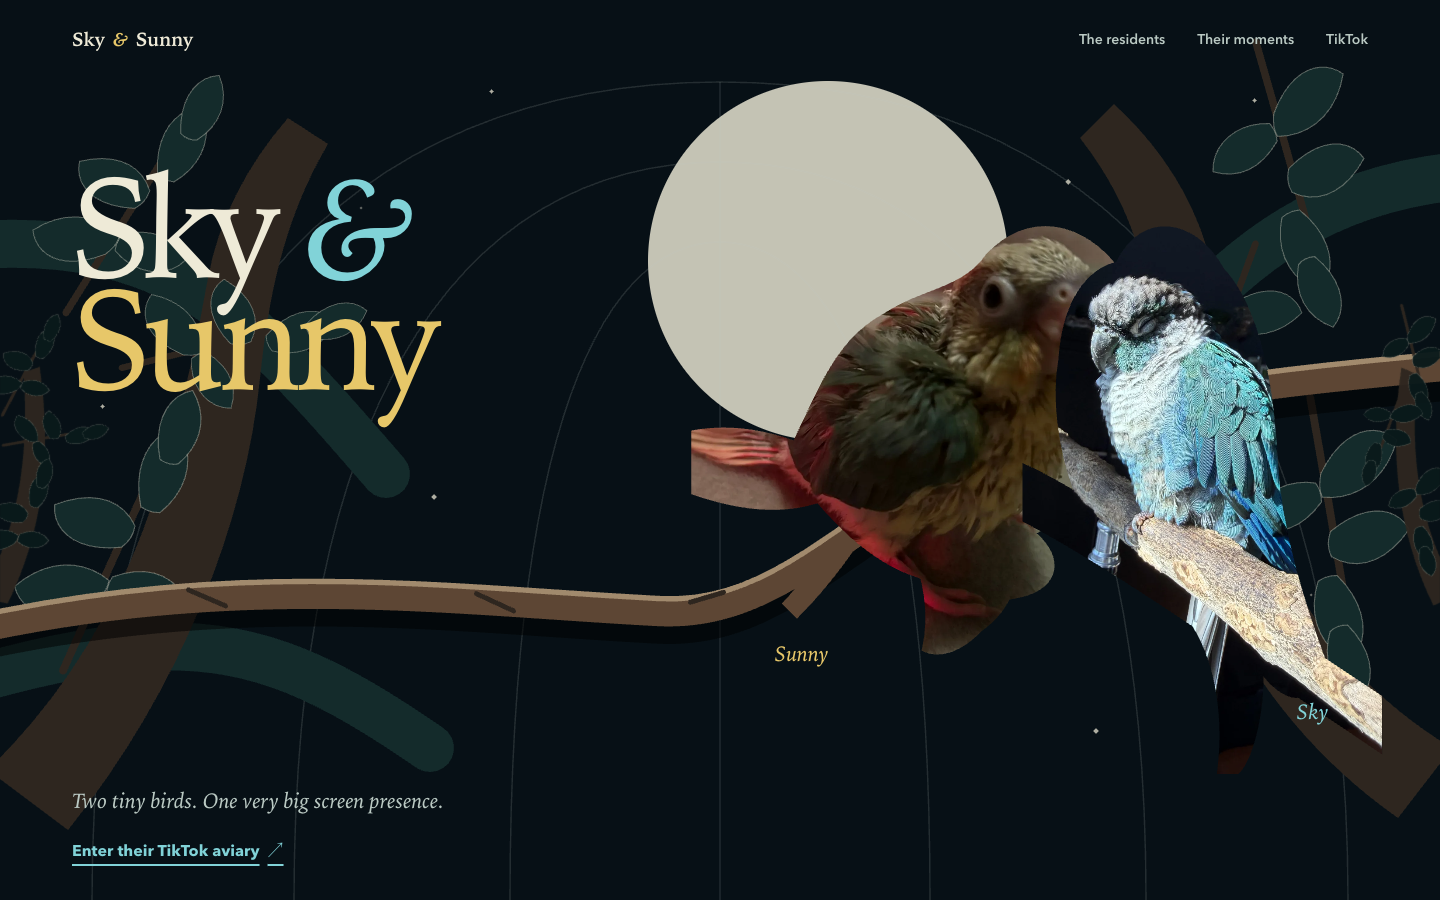
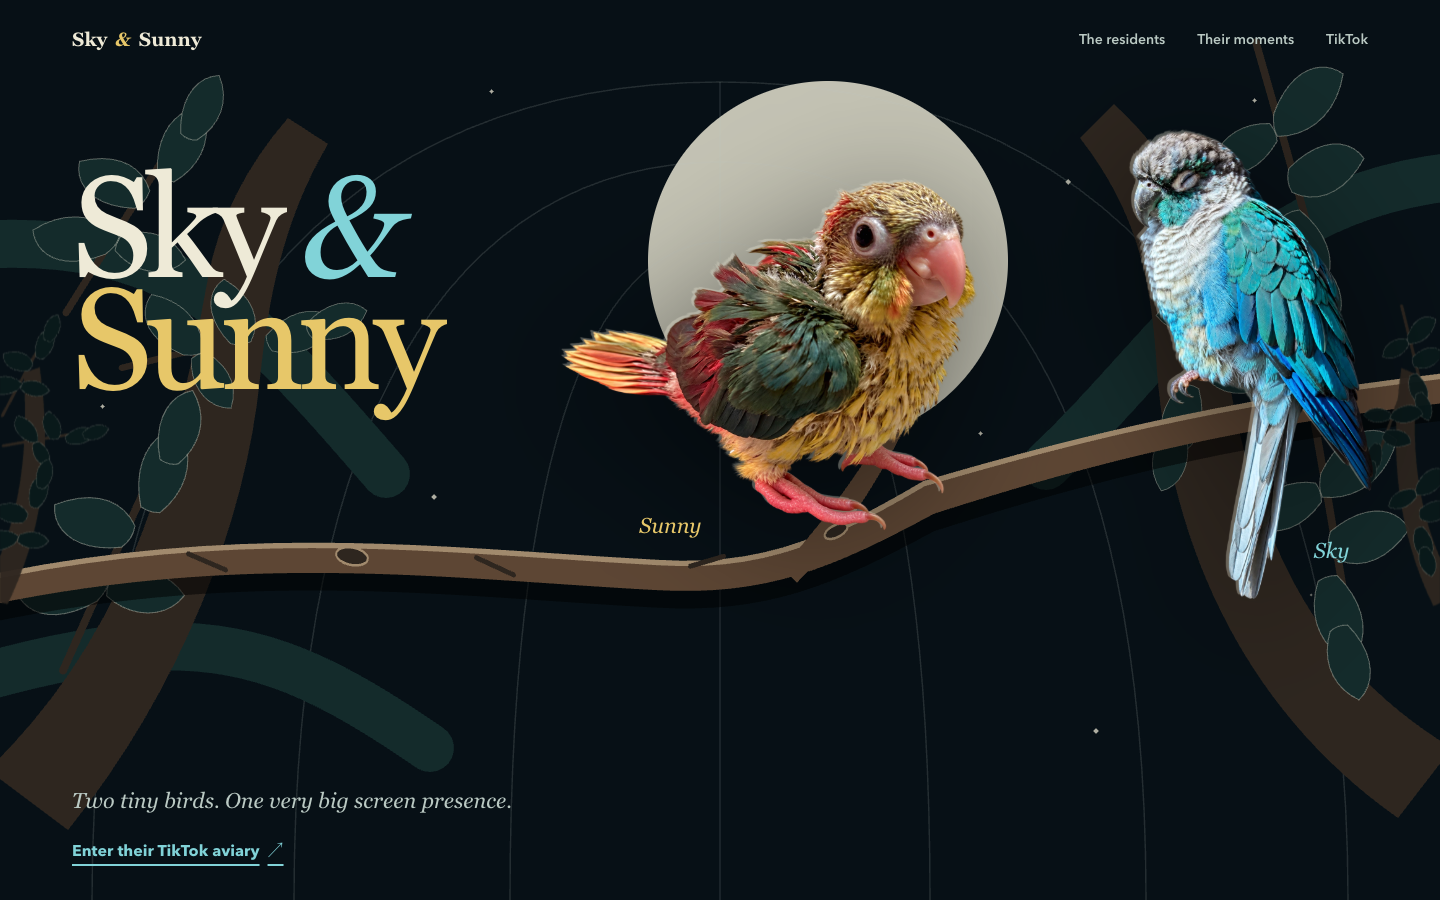
fix: polish aviary cutouts and safe zones

diff --git a/sandbox/night-aviary/index.html b/sandbox/night-aviary/index.html
@@ -30,12 +30,6 @@
   <main id="main-content">
     <svg class="scene-definitions" width="0" height="0" aria-hidden="true" focusable="false">
       <defs>
-        <clipPath id="sunny-clip" clipPathUnits="objectBoundingBox">
-          <path d="M.2 .59C.27 .47 .3 .35 .42 .29C.5 .24 .59 .24 .64 .17C.73 .08 .85 .1 .93 .2C1 .29 .98 .46 .91 .58C.88 .66 .82 .71 .75 .74C.81 .79 .8 .85 .72 .87C.64 .89 .57 .87 .49 .83C.39 .8 .3 .72 .2 .59ZM0 .53C.12 .51 .23 .54 .38 .62C.3 .69 .18 .72 0 .66ZM.48 .78C.55 .8 .63 .8 .7 .77C.72 .84 .69 .9 .63 .94C.59 .98 .54 1 .5 .98C.52 .9 .5 .83 .48 .78Z"></path>
-        </clipPath>
-        <clipPath id="sky-clip" clipPathUnits="objectBoundingBox">
-          <path d="M.1 .36C.11 .27 .18 .22 .26 .21C.33 .13 .48 .14 .56 .22C.66 .28 .7 .4 .71 .52C.72 .62 .78 .73 .84 .82C.83 .88 .76 .91 .67 .85C.67 .91 .64 .98 .6 1H.54C.56 .92 .54 .83 .47 .77C.34 .72 .22 .65 .14 .56C.1 .5 .08 .42 .1 .36ZM0 .52C.2 .57 .43 .67 1 .88V.97C.57 .81 .27 .69 0 .61Z"></path>
-        </clipPath>
         <symbol id="leaf-spray" viewBox="0 0 180 140">
           <path class="leaf-stem" d="M14 130C50 102 88 72 164 15"></path>
           <path class="leaf-blade" d="M54 101C20 102 8 84 12 68C38 62 59 73 67 93C64 97 60 99 54 101Z"></path>
@@ -93,26 +87,24 @@
           <h1 id="hero-title"><span>Sky <i>&amp;</i></span><span>Sunny</span></h1>
         </div>
         <div class="residents" aria-label="Portraits of Sunny and Sky">
-          <figure class="resident resident-sunny">
-            <div class="portrait-mask sunny-mask">
-              <img src="assets/sunny-portrait.webp" width="1400" height="1400" alt="Sunny, a small green-and-yellow bird with a rosy tail and visible pink feet.">
-            </div>
+          <figure class="resident resident-sunny" data-face="sunny">
+            <img class="resident-cutout" src="assets/sunny-cutout.webp" width="1366" height="1152" alt="Sunny, a small green-and-yellow bird with a rosy tail and visible pink feet.">
             <figcaption>Sunny</figcaption>
           </figure>
-          <figure class="resident resident-sky">
-            <div class="portrait-mask sky-mask">
-              <img src="assets/sky-portrait.webp" width="1200" height="2134" alt="Sky, a turquoise-and-grey bird resting on a natural diagonal branch.">
-            </div>
+          <figure class="resident resident-sky" data-face="sky">
+            <img class="resident-cutout" src="assets/sky-cutout.webp" width="1024" height="1536" alt="Sky, a turquoise-and-grey bird ready to settle on the shared branch.">
             <figcaption>Sky</figcaption>
           </figure>
         </div>
 
         <svg class="shared-perch" viewBox="0 0 1440 230" preserveAspectRatio="none" aria-hidden="true" focusable="false">
-          <path class="perch-shadow" d="M-40 164C236 114 444 138 658 147C760 152 824 94 924 47C1094 -26 1254 -34 1488 -52L1488 -28C1254 -10 1098 -2 934 67C832 115 766 174 656 169C444 160 236 136 -40 186Z"></path>
-          <path class="perch-main" d="M-40 150C236 100 444 124 658 133C760 138 824 80 924 33C1094 -40 1254 -48 1488 -66L1488 -44C1254 -26 1098 -18 934 53C832 101 766 160 656 155C444 146 236 122 -40 172Z"></path>
-          <path class="branch-edge" d="M-40 150C236 100 444 124 658 133C760 138 824 80 924 33C1094 -40 1254 -48 1488 -66"></path>
+          <path class="perch-shadow" d="M-40 164C236 114 444 138 658 147C760 152 824 131 924 84C1094 44 1254 14 1488 -6L1488 16C1254 34 1098 66 934 108C832 152 766 174 656 169C444 160 236 136 -40 186Z"></path>
+          <path class="perch-main" d="M-40 150C236 100 444 124 658 133C760 138 824 117 924 70C1094 30 1254 0 1488 -20L1488 2C1254 20 1098 52 934 94C832 138 766 160 656 155C444 146 236 122 -40 172Z"></path>
+          <path class="branch-edge" d="M-40 150C236 100 444 124 658 133C760 138 824 117 924 70C1094 30 1254 0 1488 -20"></path>
           <path class="perch-fork" d="M782 137C835 91 872 45 901 4L914 11C885 57 852 105 797 149Z"></path>
           <path class="branch-fissure" d="M188 126L226 139M476 129L514 143M690 136L724 128"></path>
+          <ellipse class="branch-knot" cx="352" cy="128" rx="16" ry="7" transform="rotate(8 352 128)"></ellipse>
+          <ellipse class="branch-knot" cx="836" cy="108" rx="12" ry="5" transform="rotate(-20 836 108)"></ellipse>
         </svg>
         <div class="hero-note">
           <p>Two tiny birds. One very big screen presence.</p>
@@ -144,14 +136,25 @@
       <div class="moments-intro">
         <h2 id="moments-title">Three small encounters after dark.</h2>
       </div>
+      <svg class="moment-foliage moment-foliage-left" viewBox="0 0 340 800" aria-hidden="true" focusable="false">
+        <use href="#leaf-spray" x="-80" y="28" width="300" height="232" transform="rotate(-22 70 144)"></use>
+        <use href="#leaf-spray" x="22" y="244" width="254" height="198" transform="rotate(26 148 344)"></use>
+        <use href="#leaf-spray" x="-98" y="490" width="318" height="246" transform="rotate(-30 62 612)"></use>
+      </svg>
+      <svg class="moment-foliage moment-foliage-right" viewBox="0 0 340 800" aria-hidden="true" focusable="false">
+        <use href="#leaf-spray" x="118" y="40" width="300" height="232" transform="rotate(116 270 156)"></use>
+        <use href="#leaf-spray" x="40" y="270" width="258" height="200" transform="rotate(148 172 370)"></use>
+        <use href="#leaf-spray" x="132" y="500" width="314" height="244" transform="rotate(120 288 622)"></use>
+      </svg>
       <svg class="habitat-branch" viewBox="0 0 1440 2720" preserveAspectRatio="none" aria-hidden="true" focusable="false">
-        <path class="branch-shadow segment-one" d="M-80 92C180 124 384 246 456 470C538 724 364 836 408 1080"></path>
-        <path class="branch-shadow segment-two" d="M408 1080C450 1312 686 1370 876 1502C1070 1636 1184 1908 1058 2172"></path>
-        <path class="branch-shadow segment-three" d="M1058 2172C974 2348 792 2492 708 2780"></path>
-        <path class="branch-main segment-one" d="M-80 76C180 108 384 230 456 454C538 708 364 820 408 1064"></path>
-        <path class="branch-main segment-two" d="M408 1064C450 1296 686 1354 876 1486C1070 1620 1184 1892 1058 2156"></path>
-        <path class="branch-main segment-three" d="M1058 2156C974 2332 792 2476 708 2764"></path>
-        <path class="branch-edge" d="M-80 65C180 97 384 219 456 443C538 697 364 809 408 1053C450 1285 686 1343 876 1475C1070 1609 1184 1881 1058 2145C974 2321 792 2465 708 2753"></path>
+        <path class="branch-shadow segment-one" d="M-80 92C180 124 384 246 456 470C538 724 512 902 600 1080"></path>
+        <path class="branch-shadow segment-two" d="M600 1080C690 1298 820 1370 904 1510C996 1664 924 1900 700 2172"></path>
+        <path class="branch-shadow segment-three" d="M700 2172C626 2350 520 2508 430 2780"></path>
+        <path class="branch-main segment-one" d="M-80 76C180 108 384 230 456 454C538 708 512 886 600 1064"></path>
+        <path class="branch-main segment-two" d="M600 1064C690 1282 820 1354 904 1494C996 1648 924 1884 700 2156"></path>
+        <path class="branch-main segment-three" d="M700 2156C626 2334 520 2492 430 2764"></path>
+        <path class="branch-edge" d="M-80 65C180 97 384 219 456 443C538 697 512 875 600 1053C690 1271 820 1343 904 1483C996 1637 924 1873 700 2145C626 2323 520 2481 430 2753"></path>
+        <path class="branch-mark" d="M300 300L335 324M500 832L470 858M738 1374L774 1392M850 1760L812 1790M590 2378L555 2402"></path>
       </svg>
 
       <div class="moment-sequence">
@@ -162,7 +165,7 @@
             </a>
             <svg class="moment-twig twig-watermelon" viewBox="0 0 300 120" aria-hidden="true" focusable="false"><path d="M-12 98C82 92 154 52 310 18"></path><path d="M150 55C130 32 116 18 98 4"></path></svg>
           </div>
-          <div class="moment-copy">
+          <div class="moment-copy caption-clear">
             <span class="moment-number">01</span>
             <h3>Her life is forever changed</h3>
             <p>Sunny meets a watermelon on screen.</p>
@@ -175,9 +178,9 @@
             <a class="moment-image-link" href="https://www.tiktok.com/@skyandsunny.com/video/7214307952763620613" target="_blank" rel="noreferrer" aria-label="Watch Strawberries on TikTok">
               <img src="assets/moment-strawberries.webp" width="1400" height="851" alt="Sunny facing a tablet that shows bright red strawberries.">
             </a>
-            <svg class="moment-twig twig-strawberries" viewBox="0 0 300 120" aria-hidden="true" focusable="false"><path d="M-12 18C96 28 196 72 312 104"></path><path d="M174 66C198 44 214 24 226 4"></path></svg>
+            <svg class="moment-twig twig-strawberries" viewBox="0 0 300 120" aria-hidden="true" focusable="false"><path d="M-12 18C88 22 182 14 312 30"></path><path d="M154 18C174 8 190 4 206 2"></path></svg>
           </div>
-          <div class="moment-copy">
+          <div class="moment-copy caption-clear">
             <span class="moment-number">02</span>
             <h3>Strawberries</h3>
             <p>A bright red discovery, watched closely.</p>
@@ -192,7 +195,7 @@
             </a>
             <svg class="moment-twig twig-obsessions" viewBox="0 0 300 120" aria-hidden="true" focusable="false"><path d="M-12 96C80 88 178 52 312 10"></path><path d="M118 68C96 42 84 24 76 4"></path></svg>
           </div>
-          <div class="moment-copy">
+          <div class="moment-copy caption-clear">
             <span class="moment-number">03</span>
             <h3>Obsessions</h3>
             <p>Sunny and the little corn character.</p>

diff --git a/sandbox/night-aviary/styles.css b/sandbox/night-aviary/styles.css
@@ -16,8 +16,9 @@
   --color-moon-edge: rgba(238, 234, 215, 0.34);
   --color-shadow: rgba(0, 0, 0, 0.52);
   --color-menu: rgba(7, 16, 22, 0.96);
-  --font-display: "Fraunces", "Iowan Old Style", "Palatino Linotype", Georgia, serif;
-  --font-body: "Source Sans 3", "Avenir Next", Avenir, "Segoe UI", sans-serif;
+  /* Honest local stacks: this sandbox ships no licensed font files or remote font requests. */
+  --font-display: Georgia, "Times New Roman", Times, serif;
+  --font-body: "Avenir Next", Avenir, "Segoe UI", Helvetica, Arial, sans-serif;
   --size-display: clamp(5rem, 10vw, 9.5rem);
   --size-h2: clamp(3rem, 6vw, 6.5rem);
   --size-h3: clamp(2rem, 3.5vw, 4rem);
@@ -422,28 +423,18 @@ h1 i {
   margin: 0;
 }
 
-.portrait-mask {
+.resident-cutout {
   width: 100%;
   height: 100%;
-  filter: drop-shadow(-0.18rem -0.12rem 0 var(--color-moon-edge)) drop-shadow(var(--shadow-photo));
-}
-
-.portrait-mask img {
-  width: 100%;
-  height: 100%;
-  object-fit: cover;
-  filter: saturate(0.94) contrast(1.035);
-}
-
-.sunny-mask {
-  clip-path: url(#sunny-clip);
+  object-fit: contain;
+  filter: saturate(0.94) contrast(1.035) drop-shadow(-0.18rem -0.12rem 0 var(--color-moon-edge)) drop-shadow(var(--shadow-photo));
 }
 
 .resident-sunny {
   top: 19%;
-  left: 48%;
-  width: clamp(21rem, 32vw, 30rem);
-  height: clamp(22rem, 34vw, 32rem);
+  left: 39%;
+  width: clamp(20rem, 30vw, 27rem);
+  aspect-ratio: 1366 / 1152;
 }
 
 .resident-sunny figcaption {
@@ -452,19 +443,11 @@ h1 i {
   color: var(--color-sunny);
 }
 
-.sky-mask {
-  clip-path: url(#sky-clip);
-}
-
-.sky-mask img {
-  object-position: center 42%;
-}
-
 .resident-sky {
   top: 14%;
-  right: 4%;
-  width: clamp(17rem, 25vw, 23rem);
-  height: clamp(31rem, 45vw, 42rem);
+  right: 3%;
+  width: clamp(16rem, 22vw, 21rem);
+  aspect-ratio: 2 / 3;
 }
 
 .resident-sky figcaption {
@@ -482,7 +465,7 @@ h1 i {
 
 .shared-perch {
   position: absolute;
-  top: 48%;
+  top: 44%;
   left: 0;
   z-index: var(--layer-branch);
   width: 100%;
@@ -548,6 +531,12 @@ h1 i {
   stroke: var(--color-bark-dark);
   stroke-linecap: round;
   stroke-width: 4;
+}
+
+.branch-knot {
+  fill: var(--color-bark-dark);
+  stroke: var(--color-bark-edge);
+  stroke-width: 2;
 }
 
 .hero-note {
@@ -622,27 +611,25 @@ h1 i {
   background: var(--color-canvas);
 }
 
-.moments-habitat::before,
-.moments-habitat::after {
-  content: "";
+.moment-foliage {
   position: absolute;
   z-index: var(--layer-back);
-  width: 36rem;
-  height: 64rem;
-  background: var(--color-canopy-middle);
-  opacity: 0.52;
-  clip-path: polygon(0 5%, 42% 0, 68% 18%, 100% 32%, 72% 56%, 94% 82%, 48% 100%, 0 90%);
+  width: min(28vw, 24rem);
+  height: 52rem;
+  color: var(--color-canopy-middle);
+  fill: currentColor;
+  opacity: 0.6;
+  pointer-events: none;
 }
 
-.moments-habitat::before {
+.moment-foliage-left {
   top: 10rem;
-  left: -22rem;
+  left: -11rem;
 }
 
-.moments-habitat::after {
-  right: -23rem;
-  bottom: 8rem;
-  transform: scaleX(-1);
+.moment-foliage-right {
+  right: -11rem;
+  bottom: 10rem;
 }
 
 .moments-intro,
@@ -674,6 +661,13 @@ h2 {
   width: 100%;
   height: calc(100% - 18rem);
   overflow: visible;
+}
+
+.branch-mark {
+  fill: none;
+  stroke: var(--color-bark-dark);
+  stroke-linecap: round;
+  stroke-width: 10;
 }
 
 .moment-sequence {
@@ -863,11 +857,19 @@ h3 {
   }
 
   .resident-sunny {
-    left: 43%;
+    top: 19%;
+    left: 30%;
+    width: clamp(19rem, 40vw, 24rem);
   }
 
   .resident-sky {
-    right: 0;
+    right: 1%;
+    width: clamp(14rem, 30vw, 19rem);
+  }
+
+  .shared-perch {
+    top: 39%;
+    height: 30%;
   }
 
   .front-foliage {
@@ -879,7 +881,7 @@ h3 {
   }
 }
 
-@media (max-width: 48rem) {
+@media (max-width: 52rem) {
   :root {
     --header-height: 4rem;
     --size-display: clamp(3.45rem, 14vw, 6rem);
@@ -890,6 +892,17 @@ h3 {
 
   .site-nav {
     flex-wrap: wrap;
+  }
+
+  html:not(.js) .site-header {
+    position: relative;
+  }
+
+  html:not(.js) .site-menu {
+    display: grid;
+    grid-template-columns: repeat(3, minmax(0, 1fr));
+    padding-inline: 0;
+    background: transparent;
   }
 
   .js .menu-toggle {
@@ -943,17 +956,15 @@ h3 {
   }
 
   .resident-sunny {
-    top: 31%;
-    left: -4%;
-    width: clamp(14rem, 58vw, 22rem);
-    height: clamp(14rem, 60vw, 23rem);
+    top: 27%;
+    left: -2%;
+    width: clamp(13rem, 54vw, 21rem);
   }
 
   .resident-sky {
     top: 28%;
     right: 0;
-    width: clamp(11rem, 45vw, 18rem);
-    height: clamp(20rem, 77vw, 30rem);
+    width: clamp(10rem, 40vw, 17rem);
   }
 
   .resident figcaption {
@@ -971,7 +982,7 @@ h3 {
   }
 
   .shared-perch {
-    top: 44%;
+    top: 38%;
     left: -12%;
     width: 124%;
     height: 28%;
@@ -999,10 +1010,19 @@ h3 {
   }
 
   .habitat-branch {
-    inset: 15rem auto 0 -4rem;
-    width: 26rem;
+    inset: 15rem auto 0 -11rem;
+    width: 14rem;
     height: calc(100% - 15rem);
   }
+
+  .moment-foliage {
+    width: 12rem;
+    height: 34rem;
+    opacity: 0.5;
+  }
+
+  .moment-foliage-left { left: -8rem; }
+  .moment-foliage-right { right: -8rem; }
 
   .moment-sequence {
     gap: 6rem;
@@ -1041,6 +1061,11 @@ h3 {
     width: 48%;
   }
 
+  .twig-strawberries,
+  .twig-obsessions {
+    width: 25%;
+  }
+
   .site-footer {
     grid-template-columns: minmax(0, 1fr);
     align-items: start;
@@ -1063,13 +1088,11 @@ h3 {
   .resident-sunny {
     top: 30%;
     width: 62vw;
-    height: 64vw;
   }
 
   .resident-sky {
     top: 28%;
     width: 48vw;
-    height: 82vw;
   }
 
   .hero-note {

diff --git a/sandbox/night-aviary/script.js b/sandbox/night-aviary/script.js
@@ -3,7 +3,7 @@ document.documentElement.classList.add("js");
 const menuToggle = document.querySelector("#menu-toggle");
 const siteMenu = document.querySelector("#site-menu");
 const currentYear = document.querySelector("#current-year");
-const mobileMenuQuery = window.matchMedia("(max-width: 48rem)");
+const mobileMenuQuery = window.matchMedia("(max-width: 52rem)");
 
 if (currentYear) {
   currentYear.textContent = String(new Date().getFullYear());
